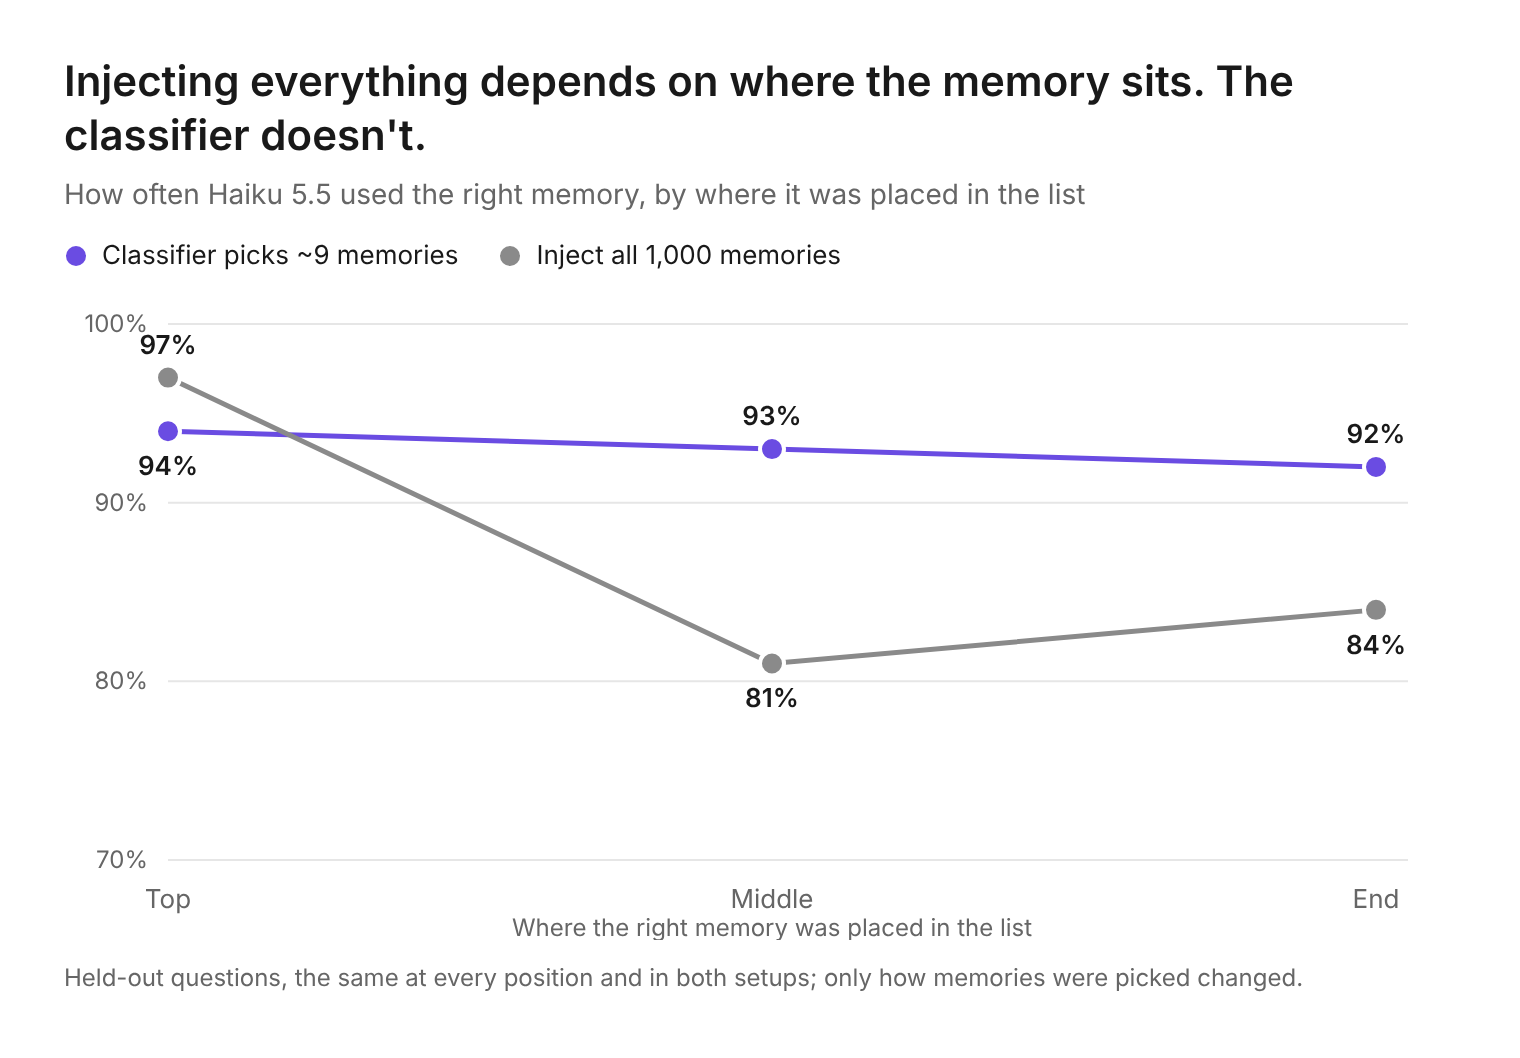
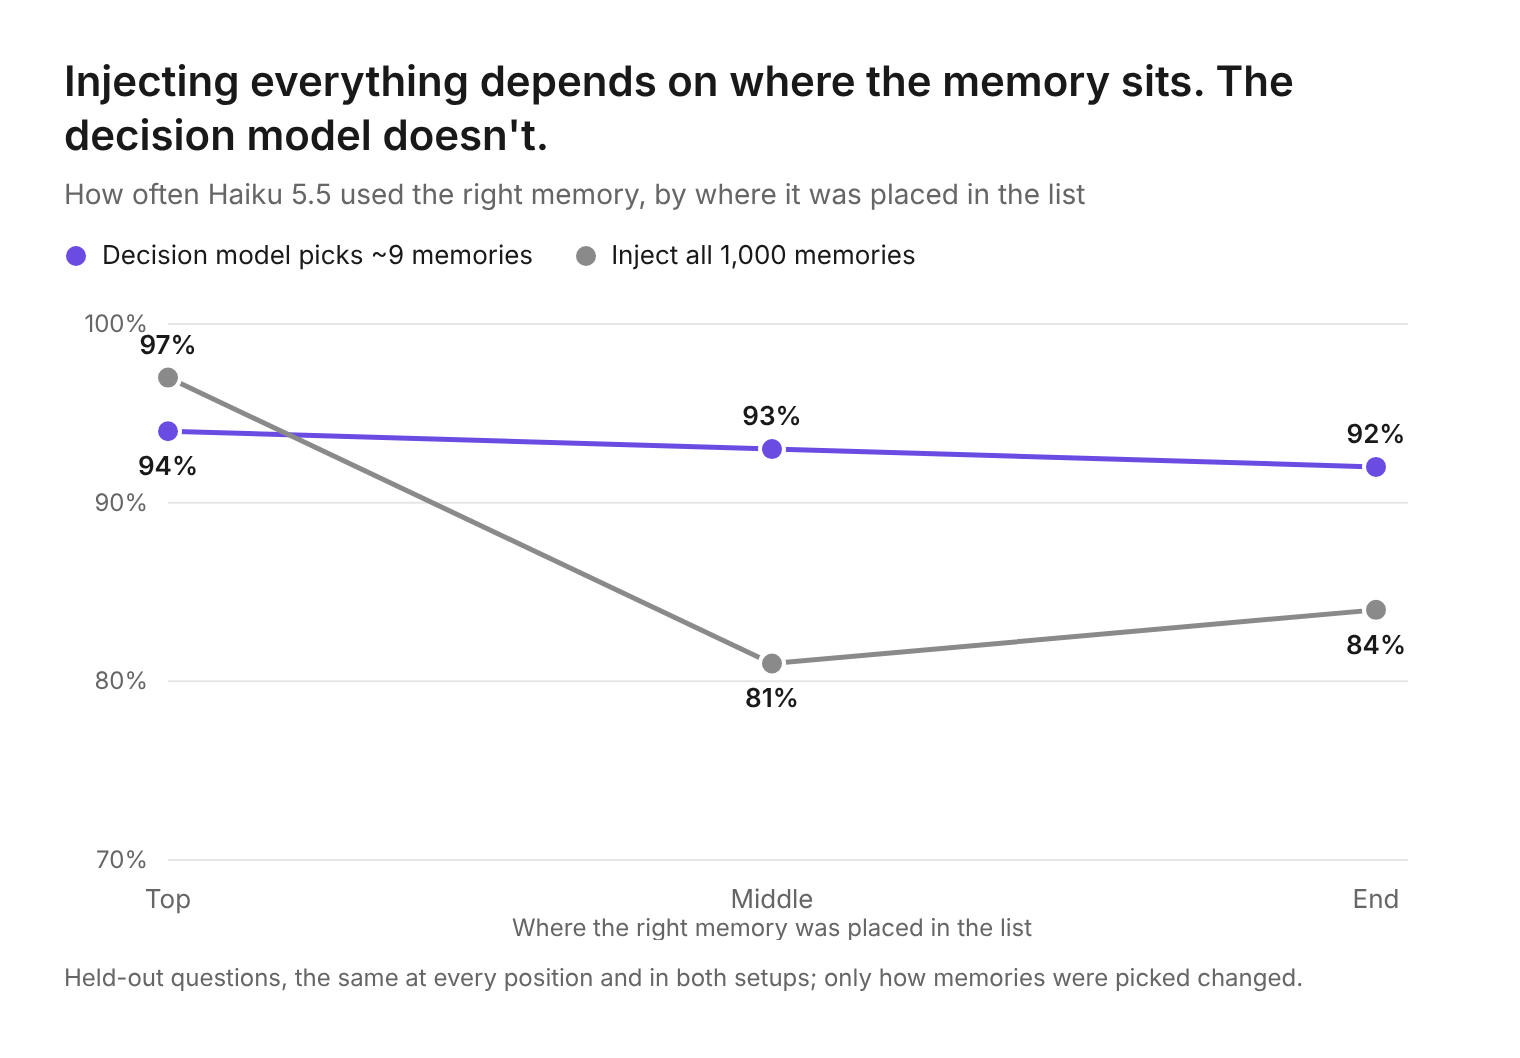
Study 02 post: title, 'decision model' terminology, untested-providers limit
Claude-Session: https://claude.ai/code/session_016wkBLoxnuhMcjxTCaESD9M

Changed region(s): [[0.0618, 0.2183, 0.6184, 0.2495], [0.0309, 0.0936, 0.3711, 0.156]]

diff --git a/02-memory-routing/posts/examples.html b/02-memory-routing/posts/examples.html
@@ -35,31 +35,31 @@ h1{font-size:30px;font-weight:700;text-align:center;margin:0 0 26px;letter-spaci
 <div><p class="label">Fact: an allergy</p><div class="card">
 <div class="q">Suggest three dishes I should order at a Thai restaurant for a first visit.</div>
 <div class="body"><div class="memwrap"><div class="cap">Memory it needs</div><div class="mem"><span class="chip">serious peanut allergy</span><i class="dot1"></i><i class="dot2"></i></div>
-<div class="rank"><span class="x">✗</span> Search ranked it #344<br><span class="v">✓</span> Classifier ranked it #1</div></div>
+<div class="rank"><span class="x">✗</span> Search ranked it #344<br><span class="v">✓</span> Decision model ranked it #1</div></div>
 <div class="say"><div class="old">“Pad Thai: … tamarind, egg, peanuts, and lime.”</div><div class="new">“Confirm that the kitchen doesn't add peanuts.”</div></div></div>
 </div></div>
 
 <div><p class="label">Fact: an injury</p><div class="card">
 <div class="q">Can you put together a simple 20-minute workout routine for me?</div>
 <div class="body"><div class="memwrap"><div class="cap">Memory it needs</div><div class="mem"><span class="chip">bad left knee: no jumping or deep squats</span><i class="dot1"></i><i class="dot2"></i></div>
-<div class="rank"><span class="x">✗</span> Search ranked it #41<br><span class="v">✓</span> Classifier ranked it #1</div></div>
+<div class="rank"><span class="x">✗</span> Search ranked it #41<br><span class="v">✓</span> Decision model ranked it #1</div></div>
 <div class="say"><div class="old">“Jumping jacks … Bodyweight squats”</div><div class="new">“avoids jumping and deep squatting to protect your left knee”</div></div></div>
 </div></div>
 
 <div><p class="label">Standing rule: every reply</p><div class="card">
 <div class="q">What are some good ways to stay focused while studying?</div>
 <div class="body"><div class="memwrap"><div class="cap">Memory it needs</div><div class="mem"><span class="chip">end every reply with “Cheers”</span><i class="dot1"></i><i class="dot2"></i></div>
-<div class="rank"><span class="x">✗</span> Search ranked it #486<br><span class="v">✓</span> Classifier ranked it #2</div></div>
+<div class="rank"><span class="x">✗</span> Search ranked it #486<br><span class="v">✓</span> Decision model ranked it #2</div></div>
 <div class="say"><div class="old">“… I can suggest a more specific setup.”</div><div class="new">“… lowers the effort it takes to start. Cheers.”</div></div></div>
 </div></div>
 
 <div><p class="label">Rule for a kind of task</p><div class="card">
 <div class="q">Please write me a short toast for my sister's wedding reception.</div>
 <div class="body"><div class="memwrap"><div class="cap">Memory it needs</div><div class="mem"><span class="chip">speeches: under a minute, no jokes</span><i class="dot1"></i><i class="dot2"></i></div>
-<div class="rank"><span class="x">✗</span> Search ranked it #71<br><span class="v">✓</span> Classifier ranked it #1</div></div>
+<div class="rank"><span class="x">✗</span> Search ranked it #71<br><span class="v">✓</span> Decision model ranked it #1</div></div>
 <div class="say"><div class="old">“… watched her make a lot of questionable fashion choices”</div><div class="new">“She has always been kind, determined and devoted to the people she loves.”</div></div></div>
 </div></div>
 
 </div>
-<div class="key"><span><span class="old">struck through</span>&nbsp; reply with similarity search (top 10 of 1,000)</span><span><span class="new">red</span>&nbsp; reply with the classifier picking memories</span></div>
+<div class="key"><span><span class="old">struck through</span>&nbsp; reply with similarity search (top 10 of 1,000)</span><span><span class="new">red</span>&nbsp; reply with the decision model picking memories</span></div>
 </div></div></body></html>

diff --git a/02-memory-routing/posts/position.html b/02-memory-routing/posts/position.html
@@ -1,5 +1,5 @@
 <!DOCTYPE html>
-<html lang="en"><head><meta charset="utf-8"><title>Position: inject everything vs. classifier</title>
+<html lang="en"><head><meta charset="utf-8"><title>Position: inject everything vs. decision model</title>
 <style>
 .viz-root{--surface-1:#ffffff;--text-primary:#191919;--text-secondary:#666666;--grid:#e6e6e6;--axis:#bdbdbd;--inj:#8a8a8a;--cls:#6a4ce2;
  font-family:-apple-system,BlinkMacSystemFont,"Segoe UI",Helvetica,Arial,sans-serif;background:var(--surface-1);color:var(--text-primary);width:760px;padding:28px 32px 20px;box-sizing:border-box}
@@ -10,14 +10,14 @@ h1{font-size:21px;font-weight:600;margin:0 0 6px;line-height:1.3}
 .note{font-size:12px;color:var(--text-secondary);margin-top:6px;line-height:1.45}
 body{margin:0;background:#fff}
 </style></head><body><div class="viz-root" id="root">
-<h1>Injecting everything depends on where the memory sits. The classifier doesn't.</h1>
+<h1>Injecting everything depends on where the memory sits. The decision model doesn't.</h1>
 <p class="sub">How often Haiku 5.5 used the right memory, by where it was placed in the list</p>
-<div class="legend"><span><svg width="12" height="12"><circle cx="6" cy="6" r="5" fill="var(--cls)"/></svg>Classifier picks ~9 memories</span><span><svg width="12" height="12"><circle cx="6" cy="6" r="5" fill="var(--inj)"/></svg>Inject all 1,000 memories</span></div>
-<svg id="c" width="696" height="330" role="img" aria-label="Line chart: inject all 1,000 scores 97% at top, 81% middle, 84% end; classifier scores 94%, 93%, 92%"></svg>
+<div class="legend"><span><svg width="12" height="12"><circle cx="6" cy="6" r="5" fill="var(--cls)"/></svg>Decision model picks ~9 memories</span><span><svg width="12" height="12"><circle cx="6" cy="6" r="5" fill="var(--inj)"/></svg>Inject all 1,000 memories</span></div>
+<svg id="c" width="696" height="330" role="img" aria-label="Line chart: inject all 1,000 scores 97% at top, 81% middle, 84% end; decision model scores 94%, 93%, 92%"></svg>
 <p class="note">Held-out questions, the same at every position and in both setups; only how memories were picked changed.</p>
 </div>
 <script>
-const S=[{k:"cls",name:"Classifier",v:[94,93,92]},{k:"inj",name:"Inject all",v:[97,81,84]}];
+const S=[{k:"cls",name:"Decision model",v:[94,93,92]},{k:"inj",name:"Inject all",v:[97,81,84]}];
 const X=["Top","Middle","End"],W=696,H=330,m={l:52,r:40,t:22,b:40};
 const x=i=>m.l+i*(W-m.l-m.r)/2, y=v=>m.t+(100-v)/(100-70)*(H-m.t-m.b);
 const svg=document.getElementById("c"),NS="http://www.w3.org/2000/svg";

diff --git a/02-memory-routing/posts/scatter.html b/02-memory-routing/posts/scatter.html
@@ -13,19 +13,19 @@ svg text{font-family:inherit}
 body{margin:0;background:#fff}
 </style></head>
 <body><div class="viz-root" id="root">
-<h1>Letting a classifier pick ~9 memories matched injecting all 1,000, at 2% of the tokens</h1>
+<h1>Letting a decision model pick ~9 memories matched injecting all 1,000, at 2% of the tokens</h1>
 <p class="sub">How often the reply used the right memory, against the tokens the replying model reads per question</p>
 <div class="legend">
  <span><svg width="12" height="12"><circle cx="6" cy="6" r="5" fill="var(--series-1)"/></svg>Haiku 5.5</span>
  <span><svg width="12" height="12"><rect x="1" y="1" width="10" height="10" rx="2" fill="var(--series-2)"/></svg>Sonnet 5.5</span>
 </div>
 <svg id="chart" width="816" height="430" role="img" aria-label="Scatter plot of adherence against answer tokens per question for four memory selection setups on Haiku 5.5 and Sonnet 5.5"></svg>
-<p class="note">Haiku: 188 held-out questions at three positions. Sonnet: 99 of them, middle position. Tokens are what the replying model reads; the classifier (Jev) also reads about 26k tokens per question, for about $0.001.</p>
+<p class="note">Haiku: 188 held-out questions at three positions. Sonnet: 99 of them, middle position. Tokens are what the replying model reads; the decision model (Jev) also reads about 26k tokens per question, for about $0.001.</p>
 <div class="tip" id="tip"></div>
 </div>
 <script>
 const data=[
- {s:"Classifier picks memories",k:"C-Jev+",h:[1284,92.8],n:[1222,93.9],lab:"right"},
+ {s:"Decision model picks memories",k:"C-Jev+",h:[1284,92.8],n:[1222,93.9],lab:"right"},
  {s:"Inject all 1,000 memories",k:"A",h:[66210,87.2],n:[65433,96.0],lab:"left"},
  {s:"Search every topic group",k:"G",h:[17976,73.6],n:[17546,73.7],lab:"above"},
  {s:"Similarity search, top 10",k:"E",h:[1551,62.6],n:[1444,59.6],lab:"right"},

diff --git a/02-memory-routing/posts/POST.md b/02-memory-routing/posts/POST.md
@@ -1,4 +1,6 @@
-# Memory routing post (draft)
+# Similarity search is breaking agent memory retrieval. Use a decision model instead.
+
+*A fast decision model picking about 9 memories per message matched injecting all 1,000, with 98% fewer tokens for the model writing the reply.*
 
 ## 1. Why I looked at this (locked)
 
@@ -20,13 +22,13 @@ Before the results, here are the kinds of memory I used. The test user had 1,000
 
 The types matter because they look different from the questions they apply to, and that turned out to decide everything.
 
-![Four examples where search missed the memory: the question, the memory it needs, and the reply with search vs. with the classifier](images/question-to-memory.png)
+![Four examples where search missed the memory: the question, the memory it needs, and the reply with search vs. with the decision model](images/question-to-memory.png)
 
 *Four examples where similarity search missed the memory.*
 
 ## 2. What I found (locked)
 
-Using a fast classifier model to pick the memories that matter for each message worked as well as injecting all 1,000. It picked about 9 memories per question and got it right 93% of the time on Haiku and 94% on Sonnet, against 87% and 96% for full injection, with about 98% fewer tokens for the model writing the reply. Plain similarity search, the usual way agents fetch memories, also puts about 10 memories in the prompt, but got it right only 60–63% of the time.
+Using a fast decision model to pick the memories that matter for each message worked as well as injecting all 1,000. It picked about 9 memories per question and got it right 93% of the time on Haiku and 94% on Sonnet, against 87% and 96% for full injection, with about 98% fewer tokens for the model writing the reply. Plain similarity search, the usual way agents fetch memories, also puts about 10 memories in the prompt, but got it right only 60–63% of the time.
 
 ![Accuracy vs. tokens the replying model reads](images/accuracy-vs-tokens.png)
 
@@ -34,7 +36,7 @@ Using a fast classifier model to pick the memories that matter for each message 
 
 My original hypothesis was that it was better to organize memories than to search them all together. Standing rules like "use metric units" apply to every reply but share no words with any question, so I figured plain search would miss them. My theory was a memory ontology: sort every memory into topic groups, give each group a name, a description, when it applies and a few examples, and let the model read that like a table of contents to decide which groups to search. I assumed the more detail each group had, the better the model would choose.
 
-Neither held up. The best organized setup came in about 15 points under full injection, and richer descriptions didn't help at all. Having a classifier judge each individual memory was a late addition after that first result set came in.
+Neither held up. The best organized setup came in about 15 points under full injection, and richer descriptions didn't help at all. Having a decision model judge each individual memory was a late addition after that first result set came in.
 
 ## How I grouped the memories (locked)
 
@@ -49,7 +51,7 @@ I built one synthetic user with 1,000 memories and wrote 263 questions, each bui
 - **Inject everything:** all 1,000 memories, every time.
 - **Similarity search:** the standard hybrid search most memory systems use. It combines keyword matching (BM25) with embeddings (OpenAI's text-embedding-3-small), uses the user's message as the query, and puts the top 10 in the prompt.
 - **Organized:** the same search, but run within the ontology. Rules always injected with search for the rest; search inside every topic group; or a model reads the ontology's group descriptions and picks which groups to search.
-- **Relevance judges:** a classifier model (Jev, from TypeSafe, which answers yes/no questions with a probability) picks the likely groups, then scores every memory in them on whether it would change the reply, and keeps the top few. I also tested an LLM (Haiku) doing the same picking.
+- **Relevance judges:** a decision model (Jev, from TypeSafe, which answers yes/no questions with a probability) picks the likely groups, then scores every memory in them on whether it would change the reply, and keeps the top few. I also tested an LLM (Haiku) doing the same picking.
 
 I ran it on Haiku 5.5, with Sonnet 5.5 side by side, and controlled where the right memory sat in the list, since study 01 showed that matters.
 
@@ -57,47 +59,48 @@ I ran it on Haiku 5.5, with Sonnet 5.5 side by side, and controlled where the ri
 
 The twins also shaped which questions made it in. A question was kept only if Haiku failed it with no memory, and followed the right memory, and separately its twin, every time it was given only that one. If Haiku already did the right thing by default, say it used metric anyway, I swapped the two, so passing always required reading the memory.
 
-My first plan had a hole. Some of the 1,000 background memories quietly answered questions on their own, so a pass didn't always trace back to the memory I planted. I checked every right memory against all 1,000 others and replaced 86 that contradicted one. I also found the store had no rules that apply to every reply, so I added 40. And I tuned settings on 75 questions and reported results only on the other 188, so the classifier never saw the test.
+My first plan had a hole. Some of the 1,000 background memories quietly answered questions on their own, so a pass didn't always trace back to the memory I planted. I checked every right memory against all 1,000 others and replaced 86 that contradicted one. I also found the store had no rules that apply to every reply, so I added 40. And I tuned settings on 75 questions and reported results only on the other 188, so the decision model never saw the test.
 
 The biggest surprise was the ontology. I expected three groups, one per memory type. It came out with 26.
 
 ## 5. What happened (locked)
 
-The model writing the reply was rarely the problem. Once the right memory made it into the prompt, Haiku and Sonnet used it almost every time. What failed was getting it there. Similarity search, the hybrid method described above, missed memories that matter without sharing words with the question, and allergies were the starkest case: the classifier got all 102 allergy trials right, while every search-based setup got 18–28.
+The model writing the reply was rarely the problem. Once the right memory made it into the prompt, Haiku and Sonnet used it almost every time. What failed was getting it there. Similarity search, the hybrid method described above, missed memories that matter without sharing words with the question, and allergies were the starkest case: the decision model got all 102 allergy trials right, while every search-based setup got 18–28.
 
 Organizing memories helped, but not enough. The best organized setup, which searched every topic group for every message, got 74% right, still well below full injection. Always including every rule fixed rule-following (33 of 33, against 12 for similarity search) but didn't help anything else. And giving the model more detail about each group didn't help at all.
 
-My first version of the classifier only picked the groups, then ran similarity search inside them. That reached 71% on Haiku and 75% on Sonnet, no better than the other organized setups. So I had the classifier do both: pick the likely groups, then judge each memory inside them. That's what closed the gap. On the same questions, it beat full injection on Haiku by 6 points and tied it on Sonnet. It also didn't care where the right memory sat in the list. Full injection did:
+My first version of the decision model only picked the groups, then ran similarity search inside them. That reached 71% on Haiku and 75% on Sonnet, no better than the other organized setups. So I had the decision model do both: pick the likely groups, then judge each memory inside them. That's what closed the gap. On the same questions, it beat full injection on Haiku by 6 points and tied it on Sonnet. It also didn't care where the right memory sat in the list. Full injection did:
 
-![Injecting everything depends on where the memory sits. The classifier doesn't.](images/position.png)
+![Injecting everything depends on where the memory sits. The decision model doesn't.](images/position.png)
 
 One question I didn't plan to highlight shows why. The user's rule was to sign off every reply with "Cheers." With full injection it was in the prompt, just in the middle, and Haiku ignored it. That's study 01 all over again.
 
-I also swapped the classifier for an LLM doing the same job: Haiku read the candidate memories and scored which ones mattered. It came close on accuracy, about the same on Haiku and 5–7 points behind on Sonnet. But it was 3–10 times slower and cost 2–3 times as much to pick, because an LLM has to write out its choices while the classifier just returns scores. All in, the classifier was also far cheaper than full injection: $0.0017 per question against $0.0071 for full injection on Haiku, and $0.013 against $0.14 on Sonnet.
+I also swapped the decision model for an LLM doing the same job: Haiku read the candidate memories and scored which ones mattered. It came close on accuracy, about the same on Haiku and 5–7 points behind on Sonnet. But it was 3–10 times slower and cost 2–3 times as much to pick, because an LLM has to write out its choices while the decision model just returns scores. All in, the decision model was also far cheaper than full injection: $0.0017 per question against $0.0071 for full injection on Haiku, and $0.013 against $0.14 on Sonnet.
 
 ## 6. What I'd do with this (locked)
 
-If I were building an agent tomorrow, I'd put a relevance judge between the memory store and the prompt. Instead of asking "which memories look like this message?", ask "would this memory change the reply?" A fast classifier is enough for that job, and it's cheap.
+If I were building an agent tomorrow, I'd put a relevance judge between the memory store and the prompt. Instead of asking "which memories look like this message?", ask "would this memory change the reply?" A fast decision model is enough for that job, and it's cheap.
 
-I'd still organize memories into topic groups, but for a different reason than I started with. The groups don't help the model find the right memory; the classifier does that. They keep the classifier's work bounded. Full injection hits a hard wall once memory outgrows the context window. A classifier judges each memory on its own, so it keeps working at any size, but its cost grows with every memory you add. Filtering by group first keeps that in check.
+I'd still organize memories into topic groups, but for a different reason than I started with. The groups don't help the model find the right memory; the decision model does that. They keep the decision model's work bounded. Full injection hits a hard wall once memory outgrows the context window. A decision model judges each memory on its own, so it keeps working at any size, but its cost grows with every memory you add. Filtering by group first keeps that in check.
 
 This matters most if you run a smaller model on every message, if your users have memories that matter without resembling their requests (allergies, standing rules, constraints), or if you're heading toward account-level memory. If you're on a larger model with a small memory store, injecting everything works fine. You'll just pay about ten times as much.
 
 ## 7. What I can't claim yet (locked)
 
-This was one synthetic user with 1,000 memories, and I screened out memories that contradicted each other. Real memory stores are messier. Because the classifier judges each memory on its own, two memories that conflict, like "vegetarian" and "had steak last week," would both get through, and it can't tell which is current.
+This was one synthetic user with 1,000 memories, and I screened out memories that contradicted each other. Real memory stores are messier. Because the decision model judges each memory on its own, two memories that conflict, like "vegetarian" and "had steak last week," would both get through, and it can't tell which is current.
 
 A few things I didn't test:
 
 - **Near misses.** Memories that are related but irrelevant, like "loves Thai iced tea" next to "allergic to peanuts." That's the next test.
-- **Scale.** At 1,000 memories, the group step only cut the candidates about in half. At 5,000 or more, the groups need to split as they fill so the classifier's work stays bounded.
-- **The classifier without groups,** and with richer group entries. I don't know yet how much the groups add to its accuracy.
+- **Scale.** At 1,000 memories, the group step only cut the candidates about in half. At 5,000 or more, the groups need to split as they fill so the decision model's work stays bounded.
+- **The decision model without groups,** and with richer group entries. I don't know yet how much the groups add to its accuracy.
 - **Off-the-shelf rerankers,** like Voyage or Cohere.
+- **Other decision models.** OpenAI and Google now offer their own, and I only tested one.
 
-The classifier was Jev, from TypeSafe. The full research brief, code and data are here: [link](https://github.com/taylor-ortiz/micro-research/tree/main/02-memory-routing)
+The decision model was Jev, from TypeSafe. The full research brief, code and data are here: [link](https://github.com/taylor-ortiz/micro-research/tree/main/02-memory-routing)
 
 ## Notes for later sections (not part of the post)
 
-- Section 6/7: full injection hits a hard wall at the context window. The classifier judges each memory independently, so the store can be split across calls; its cost grows with the store. Filtering by category first keeps that bounded. In this study the 0.1 group cutoff kept ~530 of 1,000 memories on average (range 253–949), so finer groups (a growing ontology that splits as it fills) are needed to really bound it.
-- Section 7: isolation means the classifier can't spot conflicting or duplicate memories; the test store was screened for conflicts.
-- Section 7: untested: classifier with no group step; richer group entries for the classifier; group context when judging a memory.
+- Section 6/7: full injection hits a hard wall at the context window. The decision model judges each memory independently, so the store can be split across calls; its cost grows with the store. Filtering by category first keeps that bounded. In this study the 0.1 group cutoff kept ~530 of 1,000 memories on average (range 253–949), so finer groups (a growing ontology that splits as it fills) are needed to really bound it.
+- Section 7: isolation means the decision model can't spot conflicting or duplicate memories; the test store was screened for conflicts.
+- Section 7: untested: decision model with no group step; richer group entries for the decision model; group context when judging a memory.
